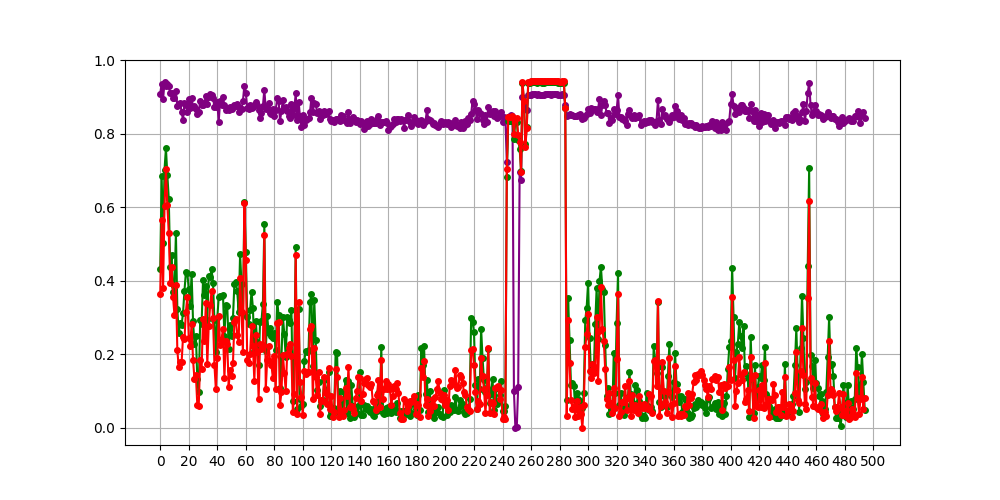
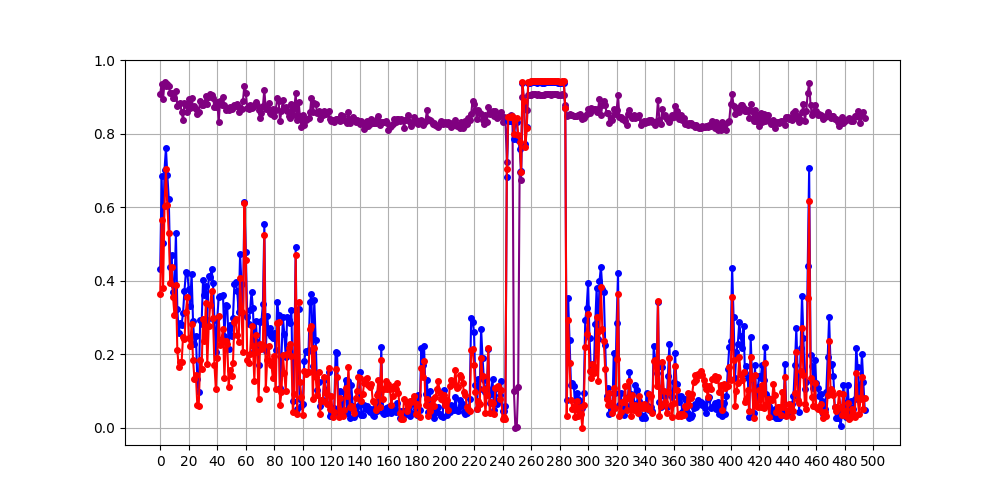
Clean the code for plot distance variation.

diff --git a/representative_selection.py b/representative_selection.py
@@ -1,3 +1,4 @@
+import math
 import os
 import pickle
 
@@ -11,11 +12,14 @@ from distances.distance_metrics import get_dist
 
 
 class ChromosomeRepresentativeSelection:
-    def __init__(self, specie, kmer, representative_length, distance_metric):
+    def __init__(self, specie, kmer, distance_metric, segment_length=None):
         self.specie = specie
         self.chromosomes_holder = ChromosomesHolder(specie)
         self.kmer = kmer
-        self.length = representative_length
+        if segment_length is not None:
+            self.length = segment_length
+        else:
+            self.length = self.chromosomes_holder.get_appropriate_segment_length()
         self.distance_metric = distance_metric
 
         self.pickle_path_root = f"./outputs/cache_pickles/{self.specie}/"
@@ -24,25 +28,27 @@ class ChromosomeRepresentativeSelection:
 
     def get_representative(self, chromosome_name):
         segments = self.get_non_overlapping_segments(chromosome_name)
-        fcgrs = self.get_fcgrs_of_segments(chromosome_name, segments)
-        distance_matrix = self.get_distance_matrix(chromosome_name, fcgrs)
+        fcgrs = self.get_fcgrs_of_segments(chromosome_name)
+        distance_matrix = self.get_distance_matrix(chromosome_name)
 
         centroid = self.find_centroid(distance_matrix, exclude_indices=None)
 
-        return {"representative_sequence": segments['segments_sequences'][centroid],
-                "representative_index": centroid,
-                "representative_fcgr": fcgrs[centroid]}
+        return {"sequence": segments['segments_sequences'][centroid],
+                "index": centroid,
+                "fcgr": fcgrs[centroid],
+                "type": "non-approximative"}
 
     def get_random_representative(self, chromosome_name, outlier=True):
         segments = self.get_non_overlapping_segments(chromosome_name)
-        fcgrs = self.get_fcgrs_of_segments(chromosome_name, segments)
+        fcgrs = self.get_fcgrs_of_segments(chromosome_name)
 
         random_centroid_index = self.chromosomes_holder.choose_random_fragment_index(chromosome_name, self.length,
                                                                                      outlier=outlier)
 
-        return {"representative_sequence": segments['segments_sequences'][random_centroid_index],
-                "representative_index": random_centroid_index,
-                "representative_fcgr": fcgrs[random_centroid_index]}
+        return {"sequence": segments['segments_sequences'][random_centroid_index],
+                "index": random_centroid_index,
+                "fcgr": fcgrs[random_centroid_index],
+                "type": f"random_outlier_{outlier}"}
 
     def get_approximate_representative(self, chromosome_name, random_sequences_number=30,
                                        remove_outliers_function="IQR", verbose=False):
@@ -94,12 +100,46 @@ class ChromosomeRepresentativeSelection:
             print(f"The process ran for {count} times, "
                   f"Total number of dropped indices {outlier_indices_number_total}")
 
-        return {"representative_sequence": representative_dict['sequence'],
-                "representative_start": representative_dict['start'],
-                "representative_fcgr": representative_dict['fcgr']}
+        return {"sequence": representative_dict['sequence'],
+                "start": representative_dict['start'],
+                "fcgr": representative_dict['fcgr'],
+                "type": "approximative"}
 
     def plot_multi_dimensional_scaling(self):
         pass
+
+    def get_distance_from_representative(self, chromosome_name, representative_dict):
+        if representative_dict['type'] == "approximative":
+            fcgrs = self.get_fcgrs_of_segments(chromosome_name)
+            distance_from_representative = np.zeros(len(fcgrs))
+
+            for index, fcgr in enumerate(fcgrs):
+                distance_from_representative[index] = get_dist(fcgr, representative_dict['fcgr'],
+                                                               dist_m=self.distance_metric)
+        else:
+            distance_matrix = self.get_distance_matrix(chromosome_name)
+            distance_from_representative = distance_matrix[representative_dict['index'], :]
+
+        return distance_from_representative
+
+    def get_approximation_error(self, chromosome_name):
+        representative = self.get_representative(chromosome_name)
+        distances_from_representative = self.get_distance_from_representative(chromosome_name, representative)
+
+        random_representative = self.get_random_representative(chromosome_name)
+        distances_from_random_representative = \
+            self.get_distance_from_representative(chromosome_name, random_representative)
+
+        approximative_representative = self.get_approximate_representative(chromosome_name)
+        distances_from_approximative_representative = \
+            self.get_distance_from_representative(chromosome_name, approximative_representative)
+
+        approximation_error = np.sqrt(
+            np.mean((distances_from_approximative_representative - distances_from_representative) ** 2))
+        random_error = np.sqrt(np.mean((distances_from_random_representative - distances_from_representative) ** 2))
+
+        print(f"Approximation error: {approximation_error}")
+        print(f"Random error: {random_error}")
 
     def plot_distance_variations(self, chromosome_name, plot_random_outliers=True, plot_approximate=True):
         figure_path = os.path.join('Figures', 'Representative', self.specie, 'Different_centroids')
@@ -108,35 +148,28 @@ class ChromosomeRepresentativeSelection:
 
         plt.figure(figsize=(10, 5))
 
-        segments = self.get_non_overlapping_segments(chromosome_name)
-        fcgrs = self.get_fcgrs_of_segments(chromosome_name, segments)
-        distance_matrix = self.get_distance_matrix(chromosome_name, fcgrs)
-
         pipeline_representative_dict = self.get_representative(chromosome_name)
-
-        distances_from_centroid = distance_matrix[pipeline_representative_dict['representative_index'], :]
+        distances_from_centroid = self.get_distance_from_representative(chromosome_name, pipeline_representative_dict)
 
         if plot_random_outliers:
             random_outlier_representative_dict = self.get_random_representative(chromosome_name, True)
-            distance_from_outlier_representative = distance_matrix[
-                                                   random_outlier_representative_dict['representative_index'], :]
+            distance_from_outlier_representative = \
+                self.get_distance_from_representative(chromosome_name, random_outlier_representative_dict)
             plt.plot(distance_from_outlier_representative, marker='o', linestyle='-', markersize=4, color='purple')
+
         if plot_approximate:
-            distance = np.zeros(len(fcgrs))
-            apx_representative_fcgr = self.get_approximate_representative(chromosome_name)['representative_fcgr']
-            for index, fcgr_matrix in enumerate(fcgrs):
-                distance[index] = get_dist(fcgr_matrix, apx_representative_fcgr, dist_m=self.distance_metric)
+            approximate_representative_dict = self.get_approximate_representative(chromosome_name)
+            distance_from_approximate_representative = \
+                self.get_distance_from_representative(chromosome_name, approximate_representative_dict)
 
-            # Calculate the mean of the squared differences (MSE)
-            # approximation_error = np.sqrt(np.mean((distance - distances_from_centroid) ** 2))
-
-            plt.plot(distance, marker='o', linestyle='-', markersize=4, color='green')
+            plt.plot(distance_from_approximate_representative, marker='o', linestyle='-', markersize=4, color='blue')
 
         plt.plot(distances_from_centroid, marker='o', linestyle='-', markersize=4, color='red')
         plt.grid(True)
 
+        x_range = math.ceil(self.chromosomes_holder.get_largest_chromosome_length() / self.length / 20)
         x_ticks = []
-        for i in range(0, 26):
+        for i in range(0, int(x_range) + 1):
             x_ticks.append(i * 20)
         y_ticks = [0.0, 0.2, 0.4, 0.6, 0.8, 1.0]
         plt.xticks(x_ticks)
@@ -152,25 +185,29 @@ class ChromosomeRepresentativeSelection:
             self.create_pickle(segments, pickle_path)
             return segments
 
-    def get_fcgrs_of_segments(self, chromosome_name, segments):
+    def get_fcgrs_of_segments(self, chromosome_name):
         pickle_path = os.path.join(self.pickle_path_root,
                                    f"chr_{chromosome_name}_len_{self.length}_kmer_{self.kmer}_fcgrs.pickle")
         if os.path.exists(pickle_path):
             return self.load_pickle(pickle_path)
         else:
+            segments = self.get_non_overlapping_segments(chromosome_name)
+
             fcgrs_list = []
             for segment in segments['segments_sequences']:
                 fcgrs_list.append(CGR(segment, self.kmer).get_fcgr())
             self.create_pickle(fcgrs_list, pickle_path)
             return fcgrs_list
 
-    def get_distance_matrix(self, chromosome_name, fcgrs):
+    def get_distance_matrix(self, chromosome_name):
         pickle_path = os.path.join(self.pickle_path_root,
                                    f"chr_{chromosome_name}_len_{self.length}_kmer_{self.kmer}"
                                    f"_dist_{self.distance_metric}_distance_matrix.pickle")
         if os.path.exists(pickle_path):
             return self.load_pickle(pickle_path)
         else:
+            fcgrs = self.get_fcgrs_of_segments(chromosome_name)
+
             distance_matrix = np.zeros((len(fcgrs), len(fcgrs)))
             for i in tqdm(range(distance_matrix.shape[0])):
                 for j in range(i + 1):
@@ -248,5 +285,6 @@ class ChromosomeRepresentativeSelection:
 
 
 if __name__ == '__main__':
-    human_representative = ChromosomeRepresentativeSelection('human', 6, 500_000, 'DSSIM')
-    human_representative.plot_distance_variations('1')
+    human_representative = ChromosomeRepresentativeSelection('human', 6, 'DSSIM')
+    for chr_name in human_representative.chromosomes_holder.get_all_chromosomes_name():
+        human_representative.plot_distance_variations(chr_name)

diff --git a/chromosomes_holder.py b/chromosomes_holder.py
@@ -66,6 +66,20 @@ class ChromosomesHolder:
             self._chromosome_sequence_cache[chromosome_name] = sequence
         return sequence
 
+    def get_all_chromosome_length(self):
+        return {chromosome_name: len(self.get_chromosome_sequence(chromosome_name)) for chromosome_name in
+                self.get_all_chromosomes_name()}
+
+    def get_largest_chromosome_length(self):
+        return max(self.get_all_chromosome_length().values())
+
+    def get_appropriate_segment_length(self):
+        total_genome_length = sum(self.get_all_chromosome_length().values())
+        app_length = total_genome_length // 6234
+        app_length //= 1000
+        app_length *= 1000
+        return app_length
+
     def get_segment(self, chromosome_name, start_of_segment, sequence_length):
         chromosome_sequence = self.get_chromosome_sequence(chromosome_name)
         assert start_of_segment > len(chromosome_sequence), "Start of segment is out of range."
